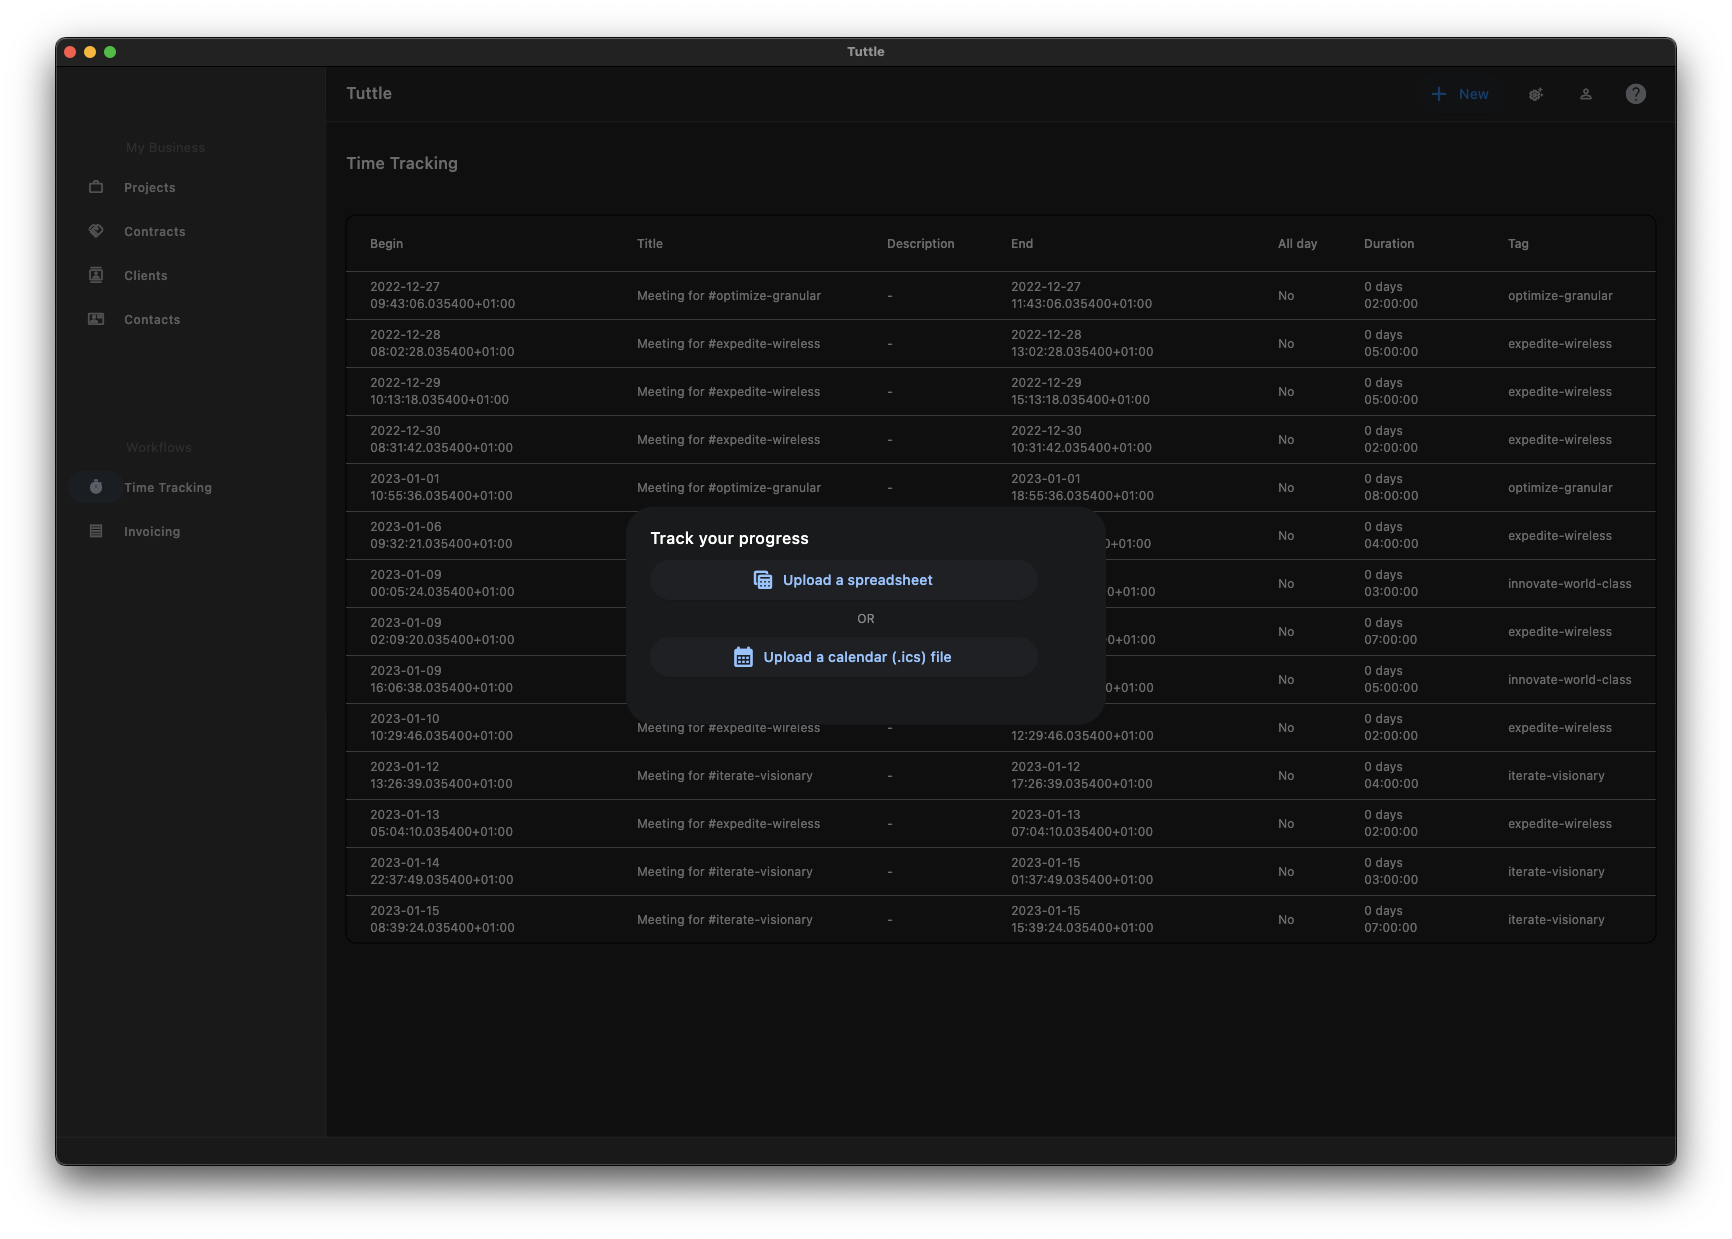
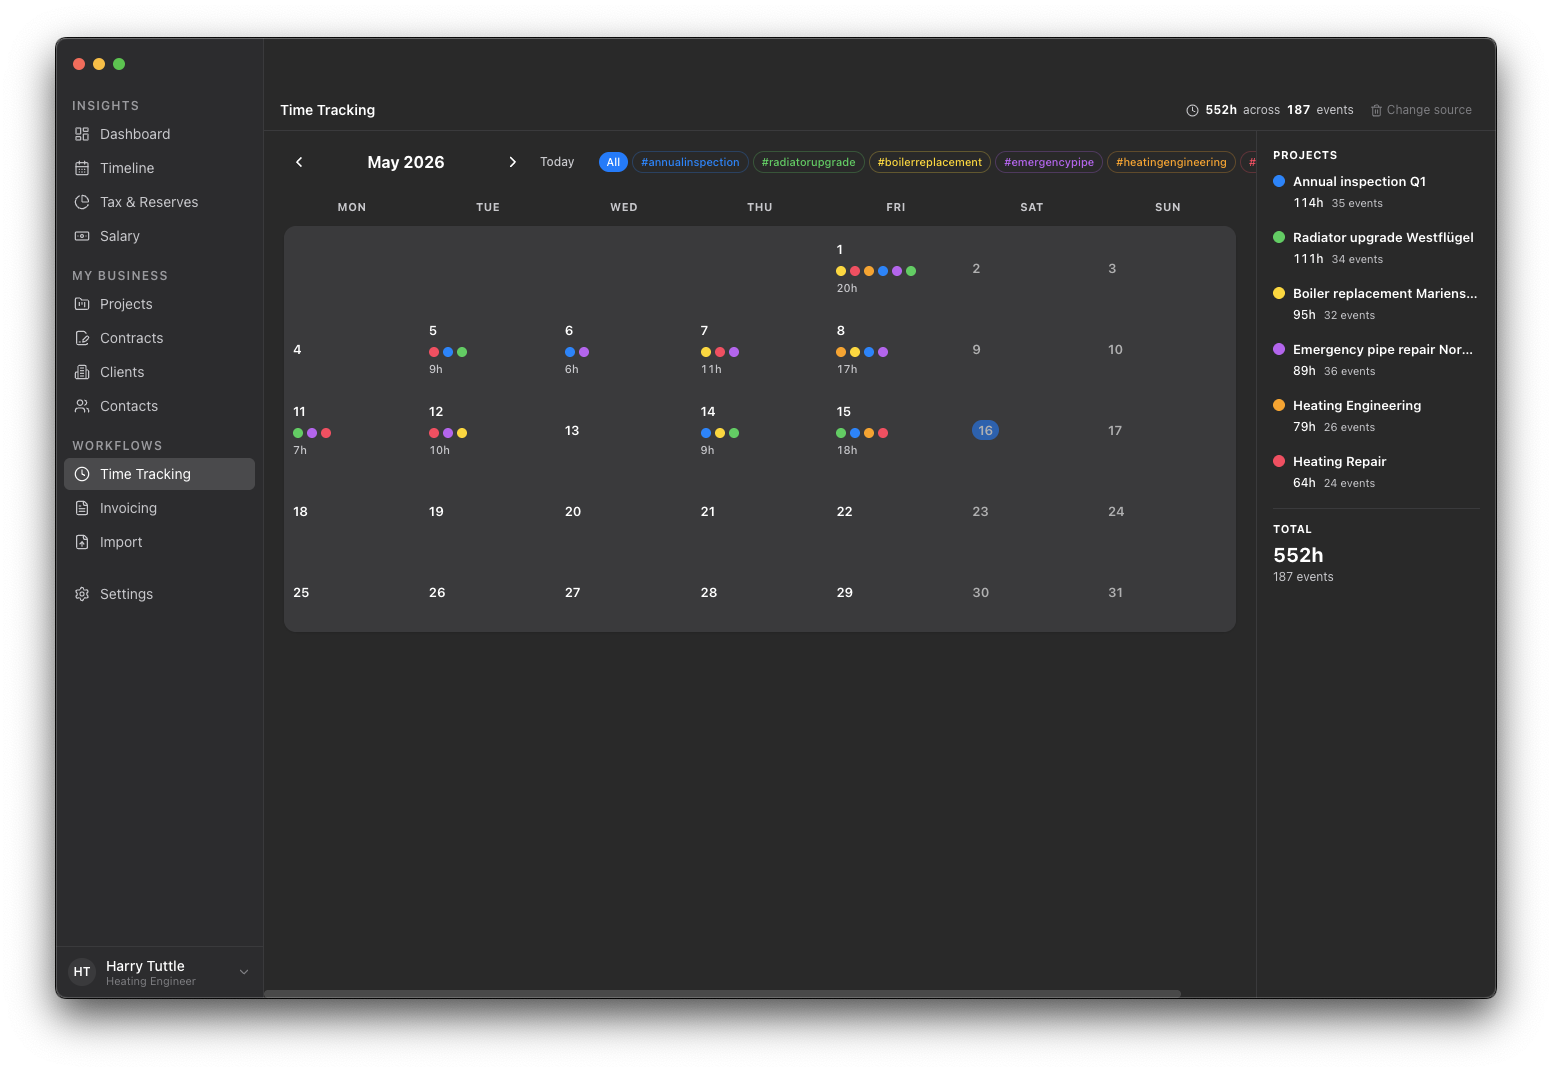
docs: update README features section. + Rename "Business Data Management" to "Dashboard" with new description. + Replace contract screenshot with dashboard screenshot. + Update invoicing screenshot filename. − Remove unused images: `mvi-concept.png`, `screenshot-contact.png`, `screenshot-contract.pn

diff --git a/ui/electron/main.ts b/ui/electron/main.ts
@@ -13,10 +13,10 @@ let pythonBridge: PythonBridge | null = null;
 function createWindow() {
   mainWindow = new BrowserWindow({
     title: "Tuttle",
-    width: 1280,
-    height: 820,
-    minWidth: 900,
-    minHeight: 600,
+    width: 1440,
+    height: 960,
+    minWidth: 1024,
+    minHeight: 700,
     titleBarStyle: "hiddenInset",
     trafficLightPosition: { x: 16, y: 18 },
     backgroundColor: "#292929",

diff --git a/README.md b/README.md
@@ -38,11 +38,11 @@ We develop the solution as a desktop application. Sensitive financial data is pr
 
 ## Features
 
-### Business Data Management
+### Dashboard
 
-Manage your business contacts, clients and contract terms for your projects - all in one place. Entity list views support sorting by any field.
+Get an overview of your freelance business at a glance: revenue, outstanding invoices, project budgets and key performance indicators.
 
-<img src="assets/images/screenshot-contract.png" width=768 />
+<img src="assets/images/screenshot-dashboard.png" width=768 />
 
 ### Time Tracking
 
@@ -50,12 +50,11 @@ Track the time you spend on your projects. Import from your cloud calendar (iClo
 
 <img src="assets/images/screenshot-timetracking.png" width=768 />
 
-
 ### Invoicing
 
 Generate invoices and timesheets automatically from your time tracking data, or create invoices manually by entering the quantity of hours or days directly. Export to PDF and send via email.
 
-<img src="assets/images/screenshot-invoicing.png" width=768 />
+<img src="assets/images/screenshot-invoices.png" width=768 />
 
 
 ## Roadmap